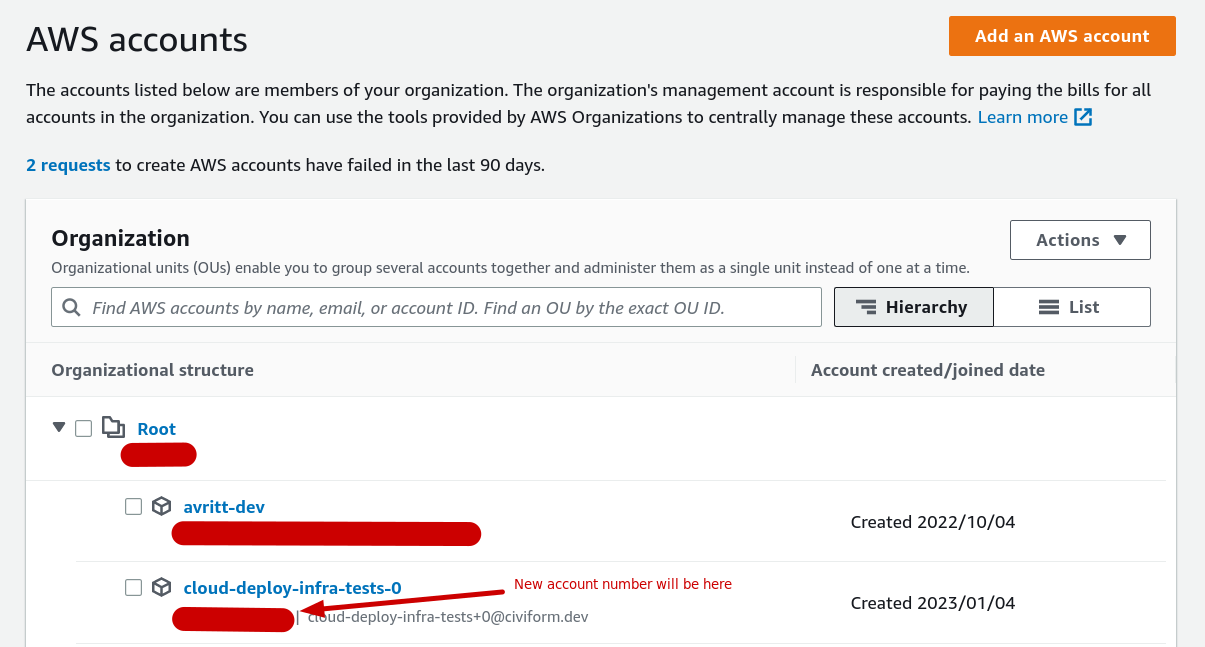
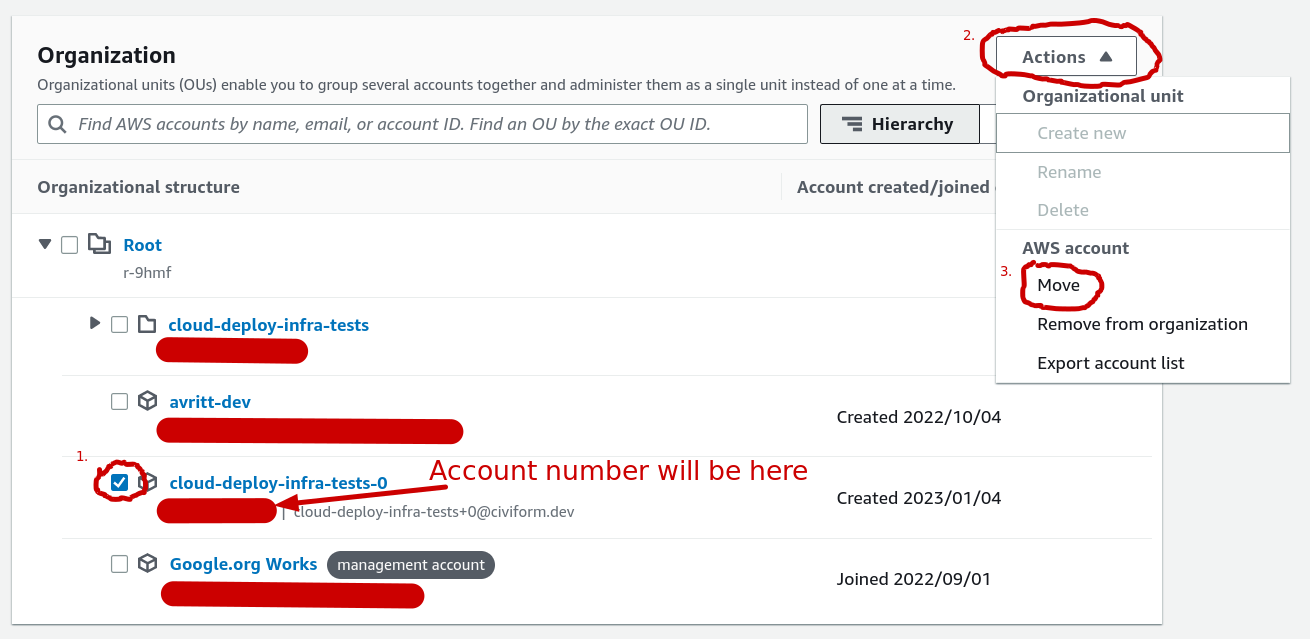
More edits:
- Add link to implementation decision doc.
- Add step to move accounts to Organization Unit.
- List formatting.

diff --git a/docs/contributor-guide/developer-guide/deploy-system/testing.md b/docs/contributor-guide/developer-guide/deploy-system/testing.md
@@ -17,6 +17,19 @@ github action.
 
 ## End to end (e2e) tests
 
+The current e2e testing implementation is the minimum viable setup. The
+[end-to-end testing implementation decision
+log](https://docs.google.com/document/d/1y1IFnuorFIsGJggMwJdLgAHtGMGPr9XDd8AdXH5VAlw/edit?usp=sharing)
+contains implementation options considered. Most aspects of the implementation
+can be iterated on to provide a more robust, secure, and developer-friendly e2e
+testing framework. Each decision contains rational for when such iteration may
+be worth the implementation and maintenance cost.
+
+We currently run one e2e test every day at 1:23 UTC via GitHub actions. The
+test runs the deploy tool in a dedicated testing AWS account. The action runs
+[aws-nuke](https://github.com/rebuy-de/aws-nuke) before and after the deploy
+tool to clean the account.
+
 ### AWS e2e test accounts
 
 There is currently one AWS account used for e2e tests. It is created under the
@@ -27,12 +40,17 @@ To create a new e2e test account:
 1. Log in to the CiviForm dev AWS account and navigate to the ['AWS
    Organizations'
    page](https://us-east-1.console.aws.amazon.com/organizations/v2/home/root).
+
 1. Determine the next test account number by looking at the
-   'cloud-deploy-infra-tests-N' accounts in the account list. For example, if
-   there was only one e2e test account 'cloud-deploy-infra-tests-0', the next
-   test account number would be 1. If there were two e2e test accounts
-   'cloud-deploy-infra-tests-0' and 'cloud-deploy-infra-tests-1', the next test
-   account number would be 2.
+   'cloud-deploy-infra-tests-N' accounts in the 'cloud-deploy-infra-tests'
+   organizational unit account list. For example, if there was only one account
+   'cloud-deploy-infra-tests-0', the next test account number would be 1. If
+   there were two accounts 'cloud-deploy-infra-tests-0' and
+   'cloud-deploy-infra-tests-1', the next test account number would be 2.
+
+	![Accounts in the cloud-deploy-infra-tests organizational
+	unit](../../../.gitbook/assets/account-list.png)
+
 1. Click the 'Add an AWS account' button.
 
 	![Add AWS account from AWS Organizations
@@ -60,8 +78,17 @@ page](https://us-east-1.console.aws.amazon.com/organizations/v2/home/root)
 page. **Copy the account number listed for the newly created account. You will
 need it in the next step.**
 
+1. Select the checkbox for the new account, click the 'Actions' button, then
+click the 'Move' button under the 'AWS account' section in the dropdown.
+
 	![Newly created AWS account in Organizational structure
 	list](../../../.gitbook/assets/new-account-in-list.png)
+
+1. Select the 'cloud-deploy-infra-tests' organizational unit then click the
+'Move AWS account' button.
+
+	![Move account to cloud-deploy-infra-tests organizational
+	unit](../../../.gitbook/assets/move-account.png)
 
 To log in the newly created e2e test account:
 
@@ -89,10 +116,12 @@ it:
 
 1. Navigate to the ['IAM > Identity providers'
 page](https://us-east-1.console.aws.amazon.com/iamv2/home?region=us-east-1#/identity_providers).
+
 1. Click the 'Add provider' button.
 
 	![Add provider from AWS IAM > Identity providers
 	page](../../../.gitbook/assets/add-identity-provider.png)
+
 1. Input the new provider details:
 
 	- 'Provider type' selection: choose 'OpenID Connect'.
@@ -103,13 +132,16 @@ page](https://us-east-1.console.aws.amazon.com/iamv2/home?region=us-east-1#/iden
 
 	![Add provider
 	details](../../../.gitbook/assets/add-identity-provider-details.png).
+
 1. Click the 'Add provider' button.
 1. Navigate to the ['IAM > Roles'
 page](https://us-east-1.console.aws.amazon.com/iamv2/home?region=us-east-1#/roles).
+
 1. Click the 'Create role' button.
 
 	![Create role from AWS IAM > Roles
 	page](../../../.gitbook/assets/add-role.png).
+
 1. Input the new role identity provider details:
 
 	- 'Trusted entity type' selection: choose 'Web identity'.
@@ -119,17 +151,20 @@ page](https://us-east-1.console.aws.amazon.com/iamv2/home?region=us-east-1#/role
 
 	![New role identity provider
 	details](../../../.gitbook/assets/add-role-details-provider.png)
+
 1. Click the 'Next' button. In the 'Permissions policies' screen, search for
 'SystemAdministrator'. Select the 'SystemAdministrator' policy. Click the
 'Next' button.
 
 	![Searching for and selecting the SystemAdministrator
 	policy](../../../.gitbook/assets/add-role-details-policies.png)
+
 1. Input the  new role details:
 
 	- 'Role name' field: input 'e2e-test-runner'.
 	- 'Description' field: input 'Role used by GitHub actions to run end-to-end
 	  tests'.
+
 1. Click the 'Create role' button. The created role should now be visible in
 the ['IAM > Roles'
 page](https://us-east-1.console.aws.amazon.com/iamv2/home?region=us-east-1#/roles).
@@ -137,17 +172,20 @@ Click on the 'e2e-test-runner' role name.
 
 	![e2e-test-runner shown in the Roles
 	list](../../../.gitbook/assets/role-in-list.png)
+
 1. In the 'e2e-test-runner' role details screen, click on the 'Trust
 relationships' tab then on the 'Edit trust policy' button.
 
 	![Edit trust policy button in e2e-test-runner role detail
 	page](../../../.gitbook/assets/edit-trust-policy.png)
+
 1. Add `"token.actions.githubusercontent.com:sub":
 "repo:civiform/cloud-deploy-infra:ref:refs/heads/main"` to the
 `Statement.Condition.StringEquals` object.
 
 	![Add new field to Statement.Condition.StringEquals
 	object](../../../.gitbook/assets/edit-trust-policy-details.png)
+
 1. Click the 'Update policy' button.
 
 The new account is ready to be used for e2e tests!  To recap, you:
